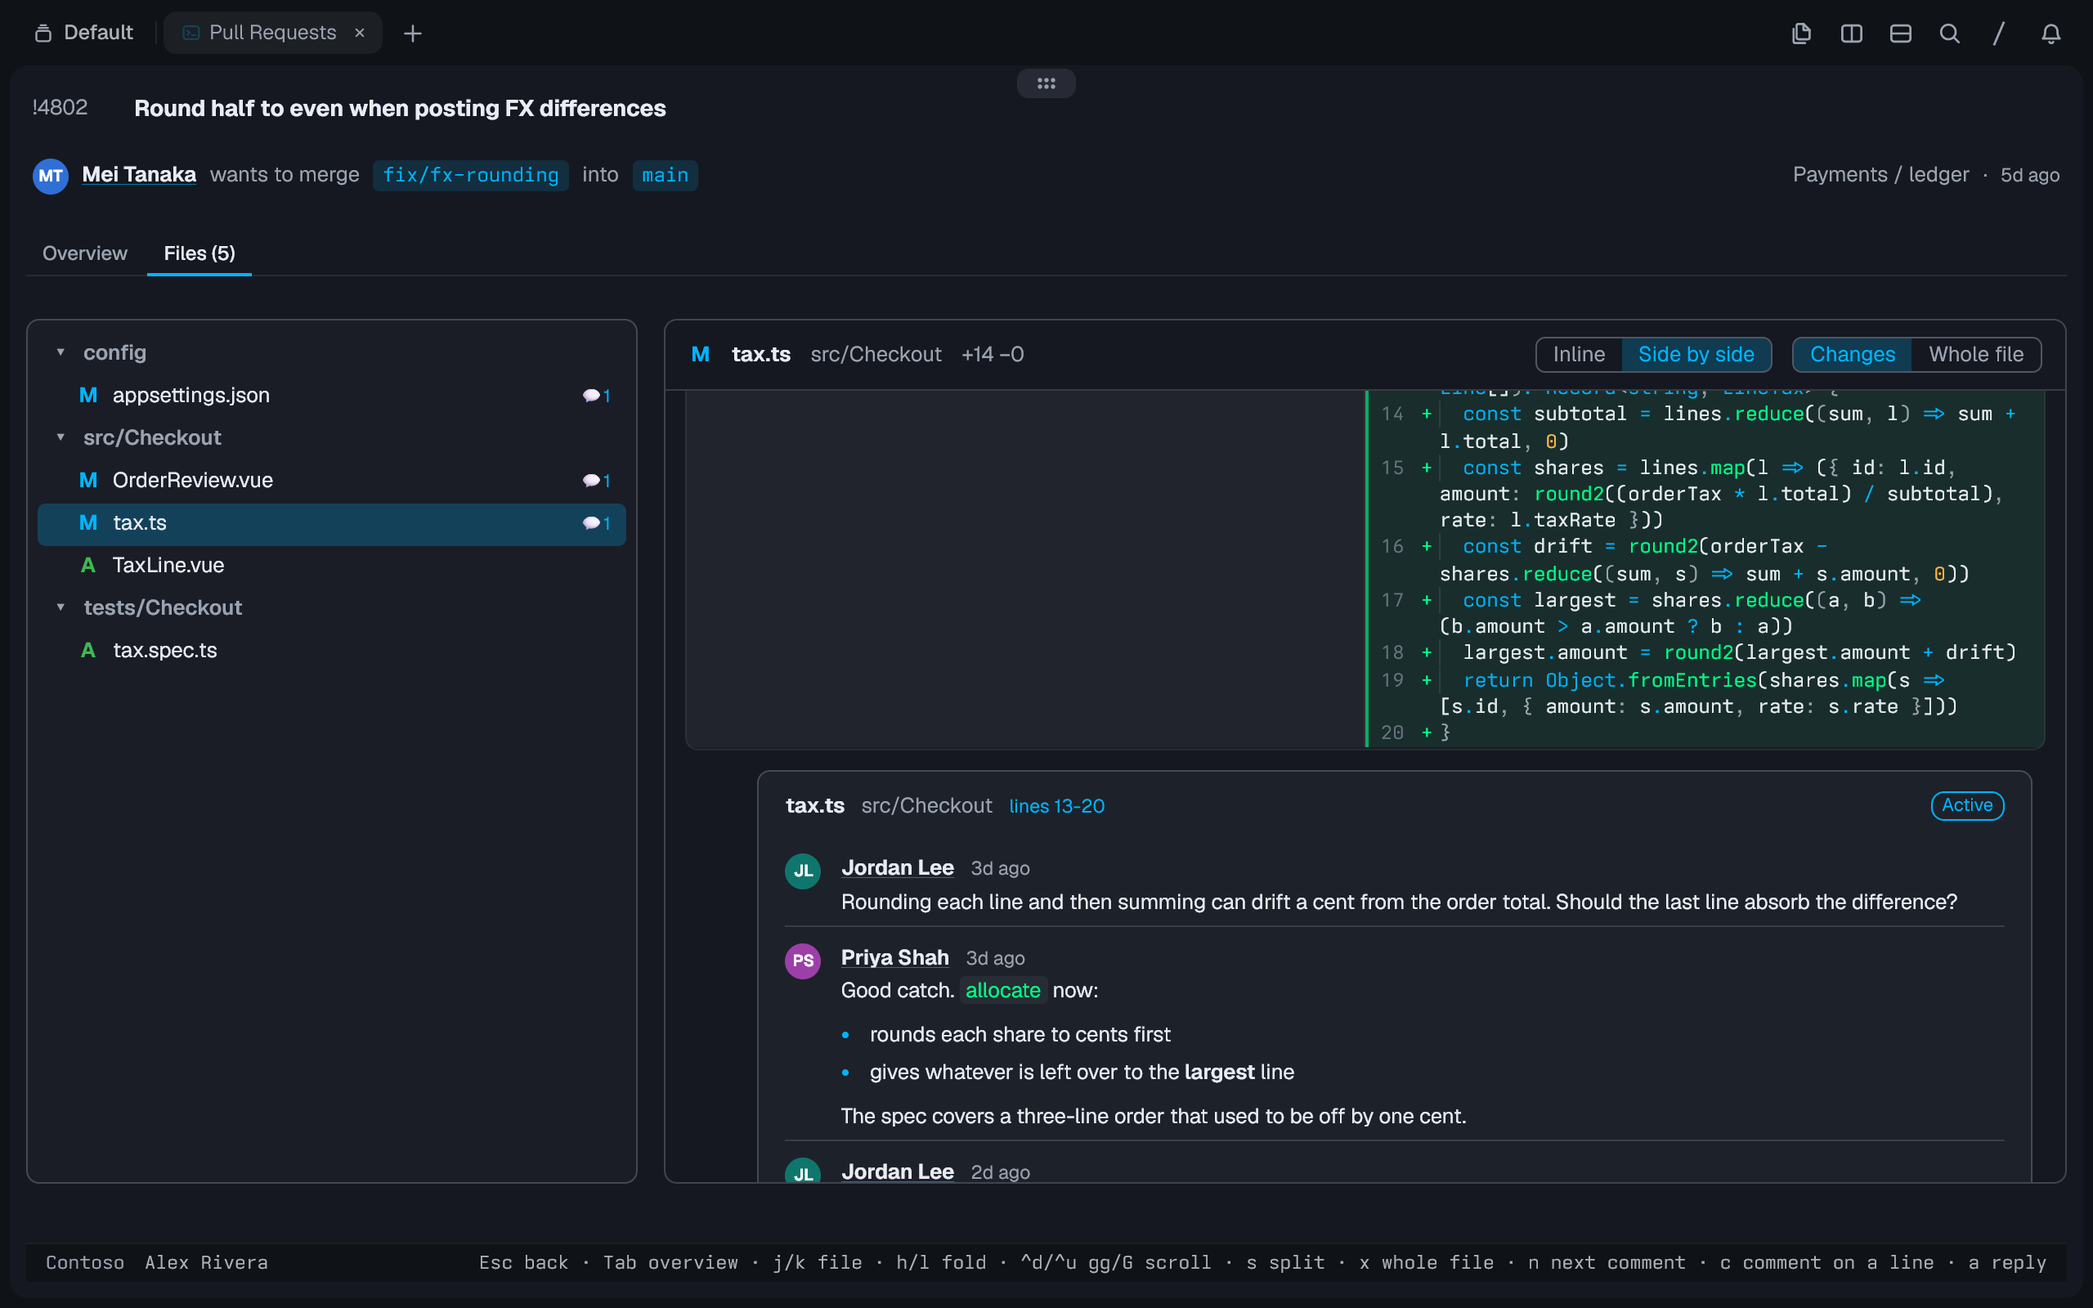
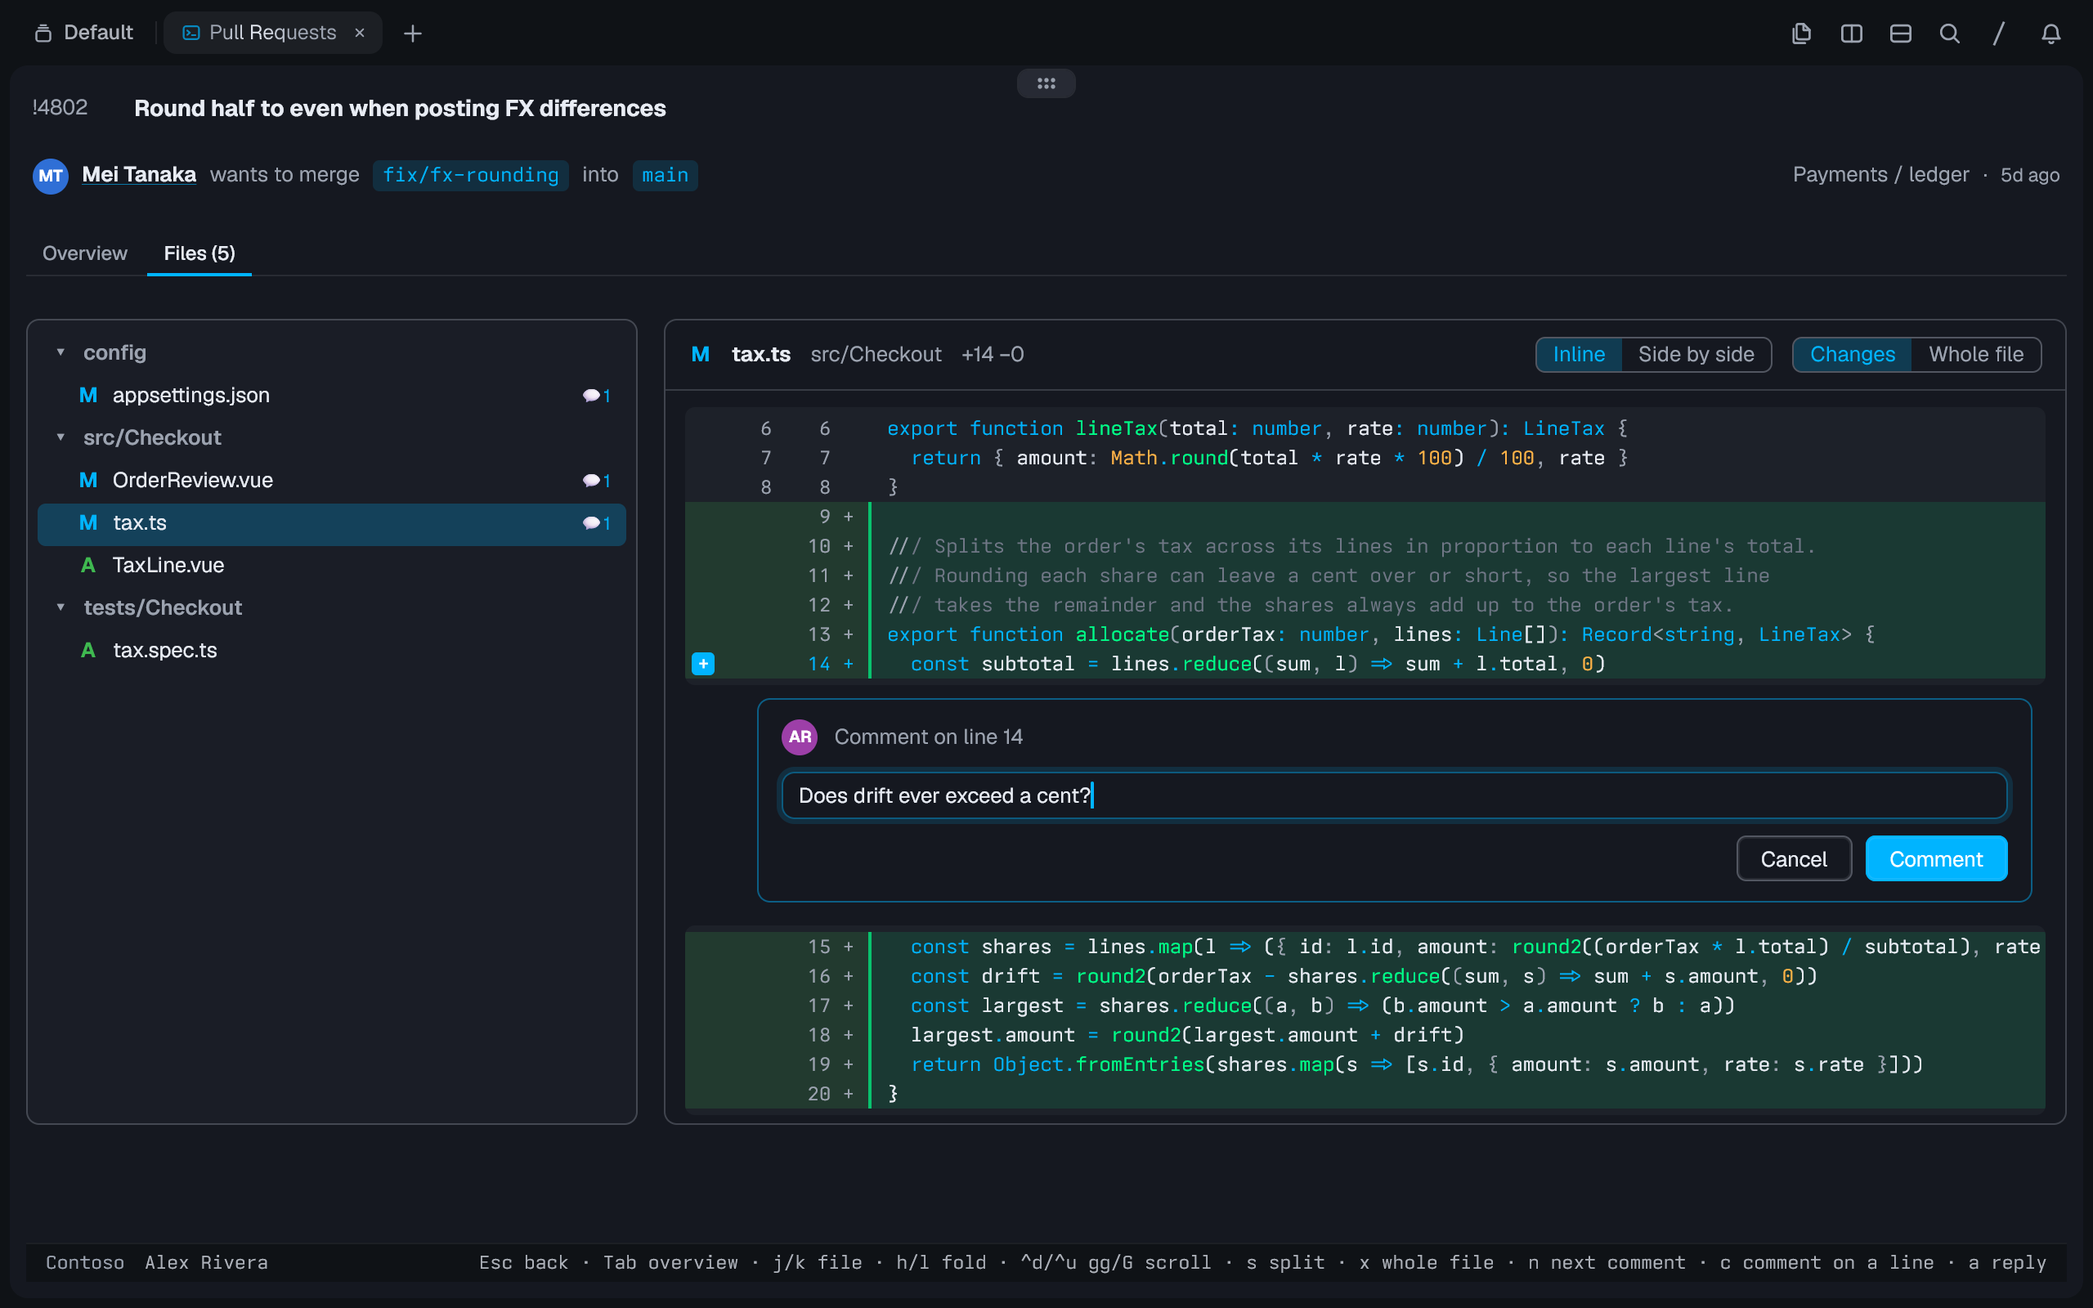
Click a diff line number to comment on it
The diff is now drawn as rows: line numbers Tern's diff could not report
clicks on, beside one highlighted code block per chunk. Clicking a number
opens an Azure DevOps style comment box under that line, focused, with
Cancel and Comment. Side by side clicks on the old side comment on the
old version.

Claude-Session: https://claude.ai/code/session_01VTcDr4P3N691VuRwyA4Y2U

diff --git a/src/app.rs b/src/app.rs
@@ -32,6 +32,9 @@ const ROW_PX: f64 = 22.0;
 /// Context lines around each change; `x` shows the whole file.
 const CONTEXT: usize = 3;
 const COMPOSER: &str = "dock.ed";
+/// The comment box that opens under a diff line.
+const LINE_BOX: &str = "main.pbody.fv.dp.ds.cbox";
+const LINE_EDITOR: &str = "main.pbody.fv.dp.ds.cbox.ed";
 
 const CSS: &str = "\
 .box{height:100%;box-sizing:border-box;width:100%;overflow:hidden;padding:4px;border:1px solid color-mix(in srgb,var(--sf-c-muted) 45%,transparent);border-radius:6px;font-family:Geist,system-ui,sans-serif;font-size:12.9px}\
@@ -109,6 +112,25 @@ const CSS: &str = "\
 .azic{margin:12px 8px 16px 44px;font-family:Geist,system-ui,sans-serif;font-size:12.9px;line-height:1.45}\
 .azic .card{margin-bottom:0}\
 .azmsg{padding:16px;color:var(--sf-c-muted)}\
+.azseg{display:flex;margin:0 0 6px;border-radius:6px;overflow:hidden;background:color-mix(in srgb,var(--sf-c-muted) 6%,transparent)}\
+.azside{flex:1 1 0;min-width:0;display:flex;padding:4px 0}\
+.azseg.split>.azside:first-child{box-shadow:inset -1px 0 0 color-mix(in srgb,var(--sf-c-muted) 28%,transparent)}\
+.azgc{flex:none;user-select:none;-webkit-user-select:none}\
+.azgl{position:relative;height:18px;line-height:18px;box-sizing:border-box;padding:0 8px 0 24px;white-space:pre;color:var(--sf-c-muted);font-variant-numeric:tabular-nums;cursor:pointer}\
+.azgl.add{background:color-mix(in srgb,var(--sf-good,#3fb950) 16%,transparent)}\
+.azgl.del{background:color-mix(in srgb,var(--sf-bad,#f85149) 16%,transparent)}\
+.azgl.nil{cursor:default;background:color-mix(in srgb,var(--sf-c-muted) 9%,transparent)}\
+.azgl.gap{cursor:default;text-align:center;padding:0 8px}\
+.azgl:not(.nil):not(.gap):hover{color:var(--sf-c-accent)}\
+.azgl:not(.nil):not(.gap):hover::before{content:'+';position:absolute;left:4px;top:2px;width:14px;height:14px;line-height:14px;text-align:center;border-radius:3px;background:var(--sf-c-accent);color:#fff;font-weight:700}\
+.azcc{flex:1;min-width:0}\
+.azcc .sf-code{--sf-lh:18px;line-height:18px;font-size:12px;margin:0;border-radius:0;background:none;box-shadow:none}\
+.azcc .sf-code-body{padding:0}\
+.azcbox{margin:8px 8px 14px 44px;padding:12px 14px;border:1px solid color-mix(in srgb,var(--sf-c-accent) 45%,transparent);border-radius:8px;display:flex;flex-direction:column;gap:10px;font-family:Geist,system-ui,sans-serif;font-size:12.9px}\
+.azcbh{display:flex;align-items:center;gap:10px}\
+.azcbf{display:flex;justify-content:flex-end;gap:8px}\
+.azbtn{padding:4px 14px;border-radius:6px;border:1px solid color-mix(in srgb,var(--sf-c-muted) 45%,transparent);background:none;color:inherit;font:inherit;cursor:pointer}\
+.azbtn.pri{background:var(--sf-c-accent);border-color:var(--sf-c-accent);color:#fff}\
 .aztog{display:flex;flex-shrink:0;border:1px solid color-mix(in srgb,var(--sf-c-muted) 45%,transparent);border-radius:6px;overflow:hidden}\
 .aztog span{padding:2px 10px;cursor:pointer;color:var(--sf-c-muted)}\
 .aztog span.on{background:color-mix(in srgb,var(--sf-c-accent) 22%,transparent);color:var(--sf-c-accent)}\
@@ -130,6 +152,11 @@ enum Msg {
 	/// The whole file (true) or the changes with context.
 	Full(bool),
 	Thread(u32),
+	/// A diff line number was clicked: comment on that line (the old side when true).
+	LineAt(u32, bool),
+	/// The line comment box's buttons.
+	Cancel,
+	Submit,
 	Send(String),
 	/// Native editing changed the composer's text.
 	Edit(wire::Edit),
@@ -464,6 +491,69 @@ fn when_full(when: &str) -> String {
 }
 
 /// `PS` for Priya Shah.
+/// Lines `from..to` of a diff: clickable line numbers beside highlighted code, side by side when `split`.
+fn segment(d: &FileDiff, from: usize, to: usize, split: bool, lang: &str) -> tern_sdk::Node<Msg> {
+	let (left, right) = diff::cells(&d.lines[from..to], split);
+	let seg = html::div().key(format!("s{from}")).class(if split { "azseg split" } else { "azseg" });
+	if split {
+		seg.child(side(&left, Some(true), lang)).child(side(&right, Some(false), lang)).into()
+	} else {
+		seg.child(side(&left, None, lang)).into()
+	}
+}
+
+/// One column of diff rows: `Some(true)` the old side, `Some(false)` the new, `None` both in one.
+fn side(cells: &[diff::Cell<'_>], old: Option<bool>, lang: &str) -> html::El<Msg> {
+	let mut gutter: Vec<tern_sdk::Node<Msg>> = Vec::with_capacity(cells.len());
+	let mut text = String::new();
+	let mut marks = Vec::new();
+	for (i, cell) in cells.iter().enumerate() {
+		if i > 0 {
+			text.push('\n');
+		}
+		let row = match cell {
+			diff::Cell::Nil => html::div().class("azgl nil"),
+			diff::Cell::Gap => html::div().class("azgl gap").text("⋯"),
+			diff::Cell::Line(l) => {
+				text.push_str(&l.text);
+				let tone = match l.tag {
+					'+' => Some(ui::Tone::Success),
+					'-' => Some(ui::Tone::Error),
+					_ => None,
+				};
+				if tone.is_some() {
+					marks.push(ui::CodeMark { line: i as u64 + 1, tone, ranges: Vec::new() });
+				}
+				let num = |n: Option<u64>| n.map_or_else(|| "    ".to_owned(), |n| format!("{n:>4}"));
+				let (label, at) = match old {
+					None => (format!("{} {} {}", num(l.old), num(l.new), l.tag), if l.tag == '-' { (l.old, true) } else { (l.new, false) }),
+					Some(true) => (format!("{} {}", num(l.old), l.tag), (l.old, true)),
+					Some(false) => (format!("{} {}", num(l.new), l.tag), (l.new, false)),
+				};
+				let cls = match l.tag {
+					'+' => "azgl add",
+					'-' => "azgl del",
+					_ => "azgl",
+				};
+				let row = html::div().class(cls).text(label);
+				match at {
+					(Some(n), left) => row.title(format!("Comment on line {n}")).on_click(Msg::LineAt(u32::try_from(n).unwrap_or(u32::MAX), left)),
+					(None, _) => row,
+				}
+			},
+		};
+		gutter.push(row.into());
+	}
+	let mut code = ui::code(text).marks(marks);
+	if !lang.is_empty() {
+		code = code.lang(lang.to_owned());
+	}
+	html::div()
+		.class("azside")
+		.child(html::div().class("azgc").children(gutter))
+		.child(html::div().class("azcc").child(code))
+}
+
 fn initials(name: &str) -> String {
 	let mut words = name.split_whitespace().filter_map(|w| w.chars().find(|c| c.is_alphanumeric()));
 	let first = words.next();
@@ -868,14 +958,14 @@ impl App {
 			}
 			dock.push(row.child(html::span("Esc cancels").class("dim")).into());
 		}
-		if let Some(c) = &self.compose {
+		if let Some(c) = self.compose.as_ref().filter(|c| !matches!(c.kind, ComposeKind::Inline { .. })) {
 			let file = self.page.as_ref().and_then(Page::change).map(|c| c.path().rsplit('/').next().unwrap_or_default().to_owned()).unwrap_or_default();
 			let placeholder: String = match c.kind {
 				ComposeKind::Org => "Organization, e.g. Contoso or https://dev.azure.com/Contoso (Enter saves)".into(),
 				ComposeKind::Filter => "Filter by title, author, repo, branch or id (Enter keeps, Esc clears)".into(),
 				ComposeKind::Comment(None) => "New comment on the pull request (Enter sends, Shift+Enter new line, Esc cancels)".into(),
 				ComposeKind::Comment(Some(_)) => "Reply (Enter sends, Shift+Enter new line, Esc cancels)".into(),
-				ComposeKind::Line => format!("Line of {file} to comment on, as numbered in the diff; -12 for a removed line (Enter goes on, Esc cancels)"),
+				ComposeKind::Line => format!("Line of {file} to comment on, -12 for a removed line, or click a line number in the diff (Enter goes on, Esc cancels)"),
 				ComposeKind::Inline { line, left } => {
 					format!("Comment on {}line {line} of {file} (Enter sends, Shift+Enter new line, Esc cancels)", if left { "removed " } else { "" })
 				},
@@ -1266,29 +1356,40 @@ impl App {
 					body.extend(threads.iter().map(|t| card(t)));
 				} else {
 					head = head.child(html::span(format!("+{} −{}", diff.added(), diff.removed())).class("dim"));
-					let mode = if p.split { ui::DiffMode::Split } else { ui::DiffMode::Unified };
-					let mut placed: Vec<(usize, &Thread)> = threads
+					let lang = name.rsplit_once('.').map_or("", |(_, ext)| ext);
+					// Thread cards, and the open comment box (None), each after the lines it is about.
+					let mut placed: Vec<(usize, Option<&Thread>)> = threads
 						.iter()
 						.map(|t| {
 							let at = t.line().map_or(0, |l| {
 								let l = u64::from(l);
 								diff.anchor(l, t.line_end().map_or(l, u64::from).max(l), t.on_left())
 							});
-							(at, *t)
+							(at, Some(*t))
 						})
 						.collect();
-					placed.sort_by_key(|(at, t)| (*at, t.line()));
-					let (mut from, mut k) = (0, 0);
+					let open = self.compose.as_ref().and_then(|c| match c.kind {
+						ComposeKind::Inline { line, left } => Some((c, line, left)),
+						_ => None,
+					});
+					if let Some((_, line, left)) = open {
+						placed.push((diff.anchor(line.into(), line.into(), left), None));
+					}
+					placed.sort_by_key(|(at, t)| (*at, t.is_some(), t.and_then(|t| t.line())));
+					let mut from = 0;
 					for (at, t) in placed {
 						if at > from {
-							body.push(ui::diff().key(format!("s{k}")).hunks(diff.window(from, at - from)).path(path.to_owned()).mode(mode.clone()).into());
-							k += 1;
+							body.push(segment(diff, from, at, p.split, lang));
 							from = at;
 						}
-						body.push(card(t));
+						body.push(match (t, open) {
+							(Some(t), _) => card(t),
+							(None, Some((c, line, left))) => self.line_box(c, line, left),
+							(None, None) => continue,
+						});
 					}
 					if from < diff.len() {
-						body.push(ui::diff().key(format!("s{k}")).hunks(diff.window(from, diff.len() - from)).path(path.to_owned()).mode(mode.clone()).into());
+						body.push(segment(diff, from, diff.len(), p.split, lang));
 					}
 				}
 			},
@@ -1298,6 +1399,39 @@ impl App {
 			.child(html::div().class("aztog right").child(tog(!p.split, "Inline", Msg::Split(false))).child(tog(p.split, "Side by side", Msg::Split(true))))
 			.child(html::div().class("aztog").child(tog(!p.full, "Changes", Msg::Full(false))).child(tog(p.full, "Whole file", Msg::Full(true))));
 		html::div().key("dp").class("azdp").child(head).child(html::div().key("ds").class("azds").children(body))
+	}
+
+	/// The comment box under a diff line, as in Azure DevOps.
+	fn line_box(&self, c: &Composer, line: u32, left: bool) -> tern_sdk::Node<Msg> {
+		let me = self.me.as_ref().map_or("You", |m| m.display_name.as_str());
+		html::div()
+			.key("cbox")
+			.class("azcbox")
+			.child(
+				html::div()
+					.class("azcbh")
+					.child(avatar(me))
+					.child(html::span(format!("Comment on line {line}{}", if left { " of the old version" } else { "" })).class("dim")),
+			)
+			.child(
+				ui::editor()
+					.key("ed")
+					.text(c.draft.clone())
+					.cursor(c.utf16_cursor())
+					.placeholder("Add a comment. Markdown works. Enter sends, Shift+Enter new line, Esc cancels.")
+					.sendable(true)
+					.max_lines(10u32)
+					.on_send(|t| Msg::Send(t.to_owned()))
+					.on_edit(|e| Msg::Edit(e.clone()))
+					.on_focus(Msg::Focus),
+			)
+			.child(
+				html::div()
+					.class("azcbf")
+					.child(html::button("Cancel").class("azbtn").on_click(Msg::Cancel))
+					.child(html::button("Comment").class("azbtn pri").on_click(Msg::Submit)),
+			)
+			.into()
 	}
 
 	// ---- input ----------------------------------------------------------------------------------
@@ -1478,6 +1612,7 @@ impl App {
 			},
 			ComposeKind::Inline { line, left } => {
 				if text.trim().is_empty() {
+					self.compose = Some(Composer::new(c.kind, text));
 					return;
 				}
 				if let Some(p) = &self.page
@@ -1775,6 +1910,20 @@ impl App {
 				}
 			},
 			Msg::Send(text) => self.send(text),
+			Msg::LineAt(line, left) => {
+				if self.page.as_ref().is_some_and(|p| p.tab == PrTab::Files && p.file_ready()) {
+					// Moving the box keeps what was typed.
+					let draft = self.compose.take().filter(|c| matches!(c.kind, ComposeKind::Inline { .. })).map(|c| c.draft).unwrap_or_default();
+					self.compose = Some(Composer::new(ComposeKind::Inline { line, left }, draft));
+					self.tree_req = Some(LINE_BOX.to_owned());
+				}
+			},
+			Msg::Cancel => self.compose = None,
+			Msg::Submit => {
+				if let Some(text) = self.compose.as_ref().map(|c| c.draft.clone()) {
+					self.send(text);
+				}
+			},
 			Msg::Edit(e) => {
 				if let Some(c) = &mut self.compose {
 					if !c.apply(&e) {
@@ -1807,7 +1956,7 @@ pub fn run(org: Option<String>, demo: bool) -> anyhow::Result<()> {
 	let sf = session.open(SurfaceOptions::screen().title("Pull Requests").role("azdo"))?;
 	session.stylesheet(sf, "azdo", Some(CSS))?;
 	let mut app = App::new(org, demo);
-	let mut focused = false;
+	let mut focused: Option<&str> = None;
 	let mut rows_checked = Instant::now();
 	// TERN_AZDO_TRACE=file logs every input, for seeing what Tern sends.
 	let mut trace = std::env::var_os("TERN_AZDO_TRACE").and_then(|p| std::fs::File::create(p).ok());
@@ -1834,9 +1983,9 @@ pub fn run(org: Option<String>, demo: bool) -> anyhow::Result<()> {
 			app.note = format!("could not scroll the file list: {e}");
 		}
 		// After the render, so the composer exists when it takes focus.
-		let want_focus = app.compose.is_some();
+		let want_focus = app.compose.as_ref().map(|c| if matches!(c.kind, ComposeKind::Inline { .. }) { LINE_EDITOR } else { COMPOSER });
 		if want_focus != focused {
-			session.focus(sf, want_focus.then_some(COMPOSER))?;
+			session.focus(sf, want_focus)?;
 			focused = want_focus;
 		}
 		let wait = Duration::from_millis(if app.busy > 0 { 100 } else { 1000 });

diff --git a/src/diff.rs b/src/diff.rs
@@ -17,6 +17,50 @@ pub struct Line {
 	pub hunk: usize,
 }
 
+/// One row of a drawn diff side.
+#[derive(Clone, Copy, Debug, PartialEq, Eq)]
+pub enum Cell<'a> {
+	Line(&'a Line),
+	/// Blank, across from lines the other side does not have.
+	Nil,
+	/// Between hunks.
+	Gap,
+}
+
+/// The rows of `lines` for one column (`split` false), or for the two sides of a side-by-side
+/// view: unchanged lines on both, each run of removed lines beside the added lines after it.
+pub fn cells(lines: &[Line], split: bool) -> (Vec<Cell<'_>>, Vec<Cell<'_>>) {
+	let (mut left, mut right) = (Vec::new(), Vec::new());
+	let mut i = 0;
+	while i < lines.len() {
+		if i > 0 && lines[i].hunk != lines[i - 1].hunk {
+			left.push(Cell::Gap);
+			if split {
+				right.push(Cell::Gap);
+			}
+		}
+		let l = &lines[i];
+		if !split || l.tag == ' ' {
+			left.push(Cell::Line(l));
+			if split {
+				right.push(Cell::Line(l));
+			}
+			i += 1;
+			continue;
+		}
+		let hunk = l.hunk;
+		let run = |from: usize, tag: char| lines[from..].iter().take_while(|x| x.tag == tag && x.hunk == hunk).count();
+		let dels = run(i, '-');
+		let adds = run(i + dels, '+');
+		for k in 0..dels.max(adds) {
+			left.push(if k < dels { Cell::Line(&lines[i + k]) } else { Cell::Nil });
+			right.push(if k < adds { Cell::Line(&lines[i + dels + k]) } else { Cell::Nil });
+		}
+		i += dels + adds;
+	}
+	(left, right)
+}
+
 #[derive(Clone, Debug, Default)]
 pub struct FileDiff {
 	pub lines: Vec<Line>,
@@ -132,6 +176,26 @@ mod tests {
 		let part = d.window(2, 2);
 		assert_eq!(part[0].lines, vec!["+D", " e"]);
 		assert_eq!((part[0].old_start, part[0].new_start), (Some(5), Some(4)));
+	}
+
+	#[test]
+	fn side_by_side_pairs_removed_with_added_lines() {
+		let d = build("a\nb\nc\nd\n", "a\nB\nd\n", 1);
+		let (l, r) = cells(&d.lines, true);
+		let show = |c: &[Cell<'_>]| {
+			c.iter()
+				.map(|c| match c {
+					Cell::Line(l) => format!("{}{}", l.tag, l.text),
+					Cell::Nil => "~".into(),
+					Cell::Gap => "...".into(),
+				})
+				.collect::<Vec<_>>()
+		};
+		assert_eq!(show(&l), [" a", "-b", "-c", " d"]);
+		assert_eq!(show(&r), [" a", "+B", "~", " d"]);
+		let (one, none) = cells(&d.lines, false);
+		assert_eq!(one.len(), d.len());
+		assert!(none.is_empty());
 	}
 
 	#[test]

diff --git a/README.md b/README.md
@@ -31,9 +31,9 @@ Reviewing in Azure DevOps usually means a browser tab per pull request. tern-azd
 
 <p align="center"><img src="docs/activity.png" alt="The activity timeline: a comment thread on tax.ts as a card with the code it is about and three comments, each with its author and time" width="900"></p>
 
-**Diffs you can read.** The changed files sit in a folder tree beside a syntax-highlighted diff with real line numbers. Comment threads appear inside the diff, right under the lines they are about, and the tree marks which files have comments. `s` switches between inline and side by side, `x` between changes and the whole file, and the diff scrolls on its own with the vim keys. `n` jumps to the next comment, moving across files. `c` leaves a comment on a line: give the line number as the diff shows it (`-12` for a removed line), then write the comment.
+**Diffs you can read.** The changed files sit in a folder tree beside a syntax-highlighted diff with real line numbers. Comment threads appear inside the diff, right under the lines they are about, and the tree marks which files have comments. `s` switches between inline and side by side, `x` between changes and the whole file, and the diff scrolls on its own with the vim keys. `n` jumps to the next comment, moving across files. To comment on a line, click its line number: a comment box opens under it, as in Azure DevOps. From the keyboard, `c` asks for the line number (`-12` for a removed line).
 
-<p align="center"><img src="docs/diff.png" alt="The Files tab: a folder tree of changed files on the left, a side-by-side diff on the right with a comment thread under the lines it is about" width="900"></p>
+<p align="center"><img src="docs/diff.png" alt="The Files tab: a folder tree of changed files on the left, the diff on the right with a comment box open under the clicked line" width="900"></p>
 
 **Review without leaving.** Vote (approve, approve with suggestions, wait for author, reject), start a comment thread, or reply to one. Open the PR in the browser, or copy its link or source branch.
 
